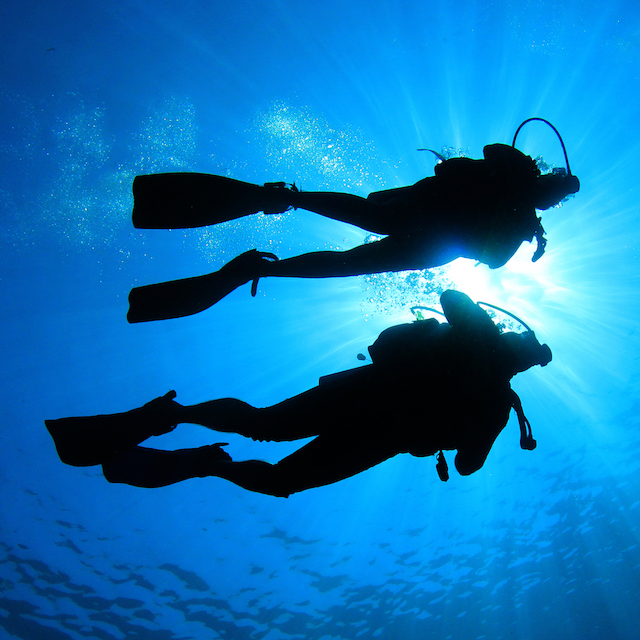
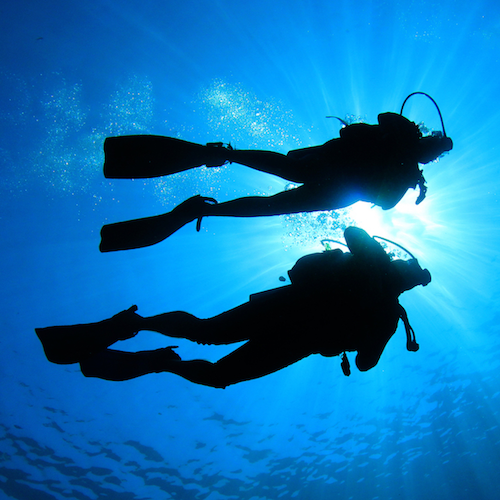
update styling

diff --git a/index.html b/index.html
@@ -38,6 +38,7 @@
 			border: none;
 			background: none;
 			box-shadow: none;
+			border-radius: 2%;
 		}
 		</style>
 
@@ -59,20 +60,17 @@
 
 				<section id="shoes" data-transition="slide">
 					<p>eCommerce sans banks!</p>
-					<!-- <img id=s1 width="40%" data-src="img/logo-persian.png"> -->
-					<img id=s1 class="stretch img-circle" data-src="img/shoes.png">
+					<img id=s1 class="stretch" data-src="img/shoes.png">
 				</section>
 
 				<section id="dive" data-transition="slide">
 					<p>Low transaction costs have a real impact</p>
-					<!-- <img id=s1 width="30%" data-src="img/logo-irikonji.png"> -->
-					<img id=s1 class="stretch img-circle" data-src="img/dive.png">
+					<img id=s1 class="stretch" data-src="img/dive.png">
 				</section>
 
 				<section id="taxi" data-transition="slide">
 					<p>Timestamp and store data forever</p>
-					<!-- <img id=s1 width="30%" data-src="img/logo-lingo.png"> -->
-					<img id=s1 class="stretch img-circle" data-src="img/taxi.png" width=70%>
+					<img id=s1 sclass="stretch" data-src="img/taxi.png">
 				</section>
 
 				<section id="fundamentals" data-transition="convex">
@@ -121,8 +119,6 @@
 					<h1>FIN</h1>
 					Questions?</br><a href="mailto:js.06@icloud.com">Email Justin</a></br>
 					<p>
-
-
 <br>
 						<a href="https://en.bitcoin.it/wiki/Main_Page">Learn about Bitcoin</a> <br>
 						<!-- - <a href="https://goatd.monetas.net/">Discover advanced cryptofinance with GoatD</a> <br> -->

diff --git a/css/reveal.css b/css/reveal.css
@@ -53,10 +53,6 @@ html:-webkit-full-screen-ancestor {
 html:-moz-full-screen-ancestor {
   background-color: inherit; }
 
-.img-circle {
-    border-radius: 2%;
-}
-
 /*********************************************
  * VIEW FRAGMENTS
  *********************************************/
